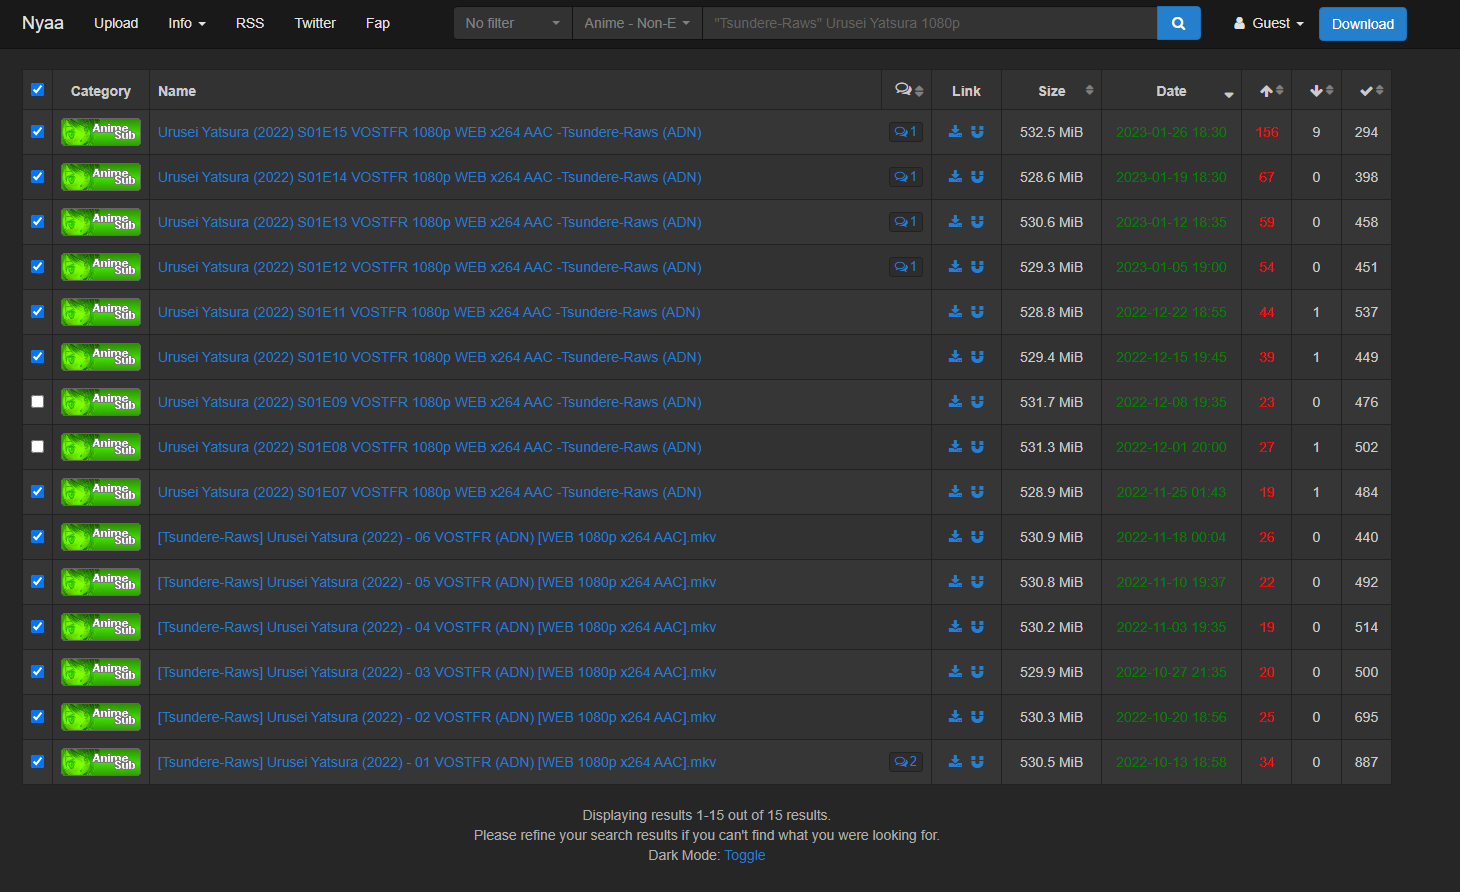
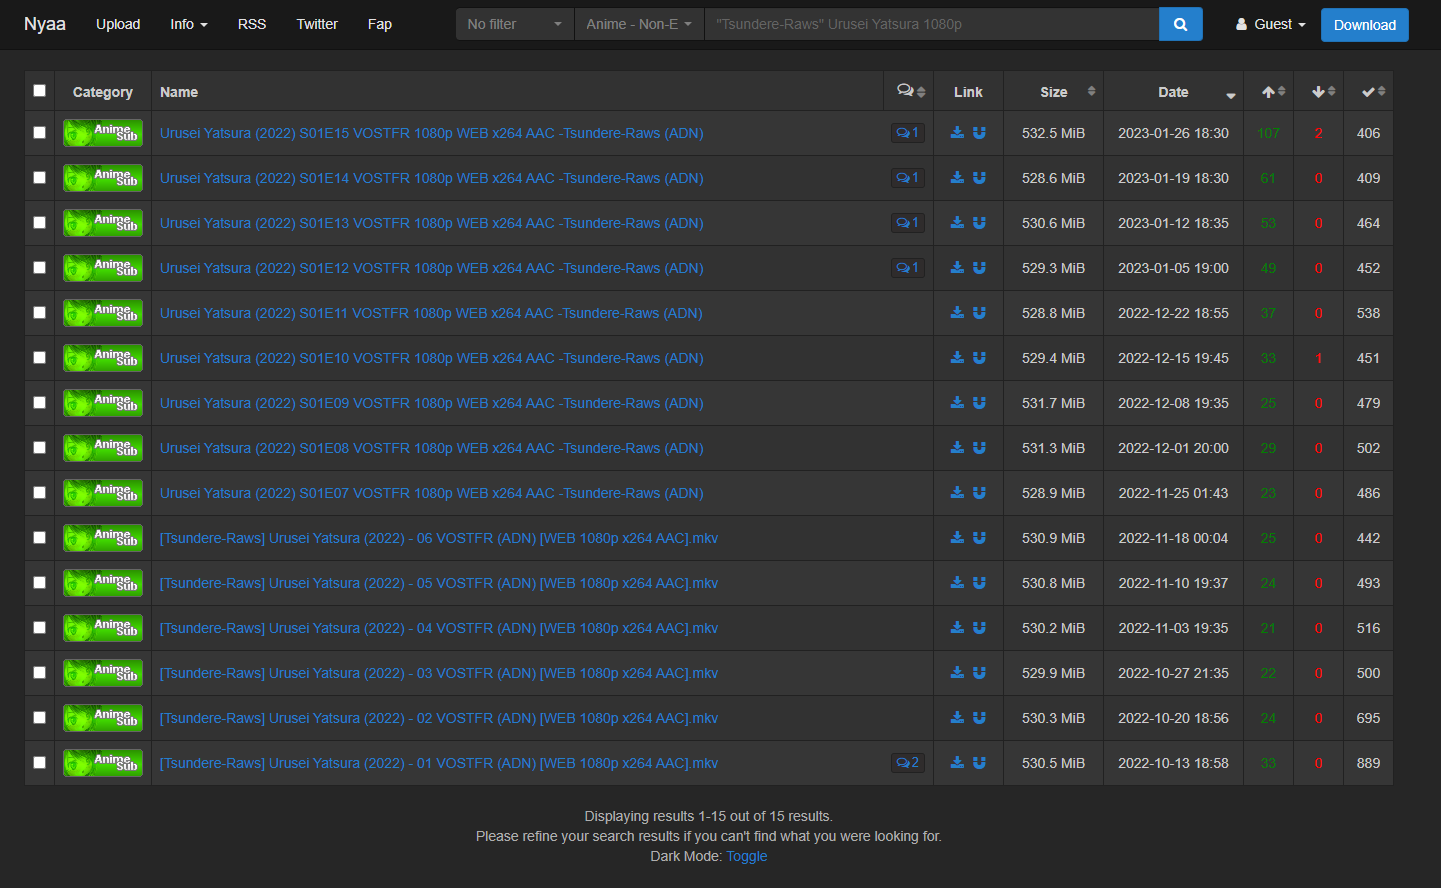
Correction of the color in the table

diff --git a/nyaa_download_torrents.js b/nyaa_download_torrents.js
@@ -14,10 +14,18 @@
 // @exclude     *nyaa.si/upload
 // ==/UserScript==
 
+// we redefine the colors of the table
+var css = document.createElement("style");
+css.setAttribute("type", "text/css");
+css.innerHTML = "table.torrent-list td:nth-child(6), body.dark table.torrent-list > tbody > tr.success > td:nth-child(6), body.dark table.torrent-list > tbody > tr.danger > td:nth-child(6) { color: #CBCBCB !important; } \
+                table.torrent-list td:nth-child(7), body.dark table.torrent-list > tbody > tr.success > td:nth-child(7), body.dark table.torrent-list > tbody > tr.danger > td:nth-child(7) { color: green !important; } \
+                table.torrent-list td:nth-child(8), body.dark table.torrent-list > tbody > tr.success > td:nth-child(8), body.dark table.torrent-list > tbody > tr.danger > td:nth-child(8) { color: red !important; }";
+document.head.appendChild(css);
+
 function torrentAll() {
     const $torrentRows = $("table.torrent-list tbody tr:has(.ckbox:checked)");
 
-    $torrentRows.each(function() {
+    $torrentRows.each(function () {
         const $downloadLink = $("a[href*='/download']", this);
         const $viewLink = $("a[href*='/view']", this);
 
@@ -40,25 +48,25 @@ function torrentAll() {
 
 // Add checkbox to table header
 $("table.torrent-list thead tr").prepend("<th class='hdr-select text-center' style='width: 10px'><input type='checkbox' id='select-all'></th>");
-$("table.torrent-list tbody tr").each(function(){
-	$(this).prepend("<td class='row-select text-center'><input class='ckbox' type='checkbox'></td>");
+$("table.torrent-list tbody tr").each(function () {
+    $(this).prepend("<td class='row-select text-center'><input class='ckbox' type='checkbox'></td>");
 });
 
 // Widen search input field
-$(".form-control.search-bar").css("width","455px");
+$(".form-control.search-bar").css("width", "455px");
 
 // Add 'Download all/selected' button to page
-if(document.getElementById("torrent-all") == null){
-	$(".nav.navbar-nav.navbar-right").append("<li><button style='margin-top: 9px' class='btn btn-primary' id='torrent-all'>Download</button></li>");
-	document.getElementById("torrent-all").addEventListener('click', function(){
-        if(confirm("This process cannot be stopped. Are you sure you want to download the selected files?")){
+if (document.getElementById("torrent-all") == null) {
+    $(".nav.navbar-nav.navbar-right").append("<li><button style='margin-top: 9px' class='btn btn-primary' id='torrent-all'>Download</button></li>");
+    document.getElementById("torrent-all").addEventListener('click', function () {
+        if (confirm("This process cannot be stopped. Are you sure you want to download the selected files?")) {
             torrentAll();
         }
     }, false);
 }
 
 // Add event listener to select all checkbox
-$("#select-all").click(function() {
+$("#select-all").click(function () {
     // Check/uncheck all checkboxes in the table rows
     $("table.torrent-list tbody tr .ckbox").prop("checked", $(this).prop("checked"));
 });
